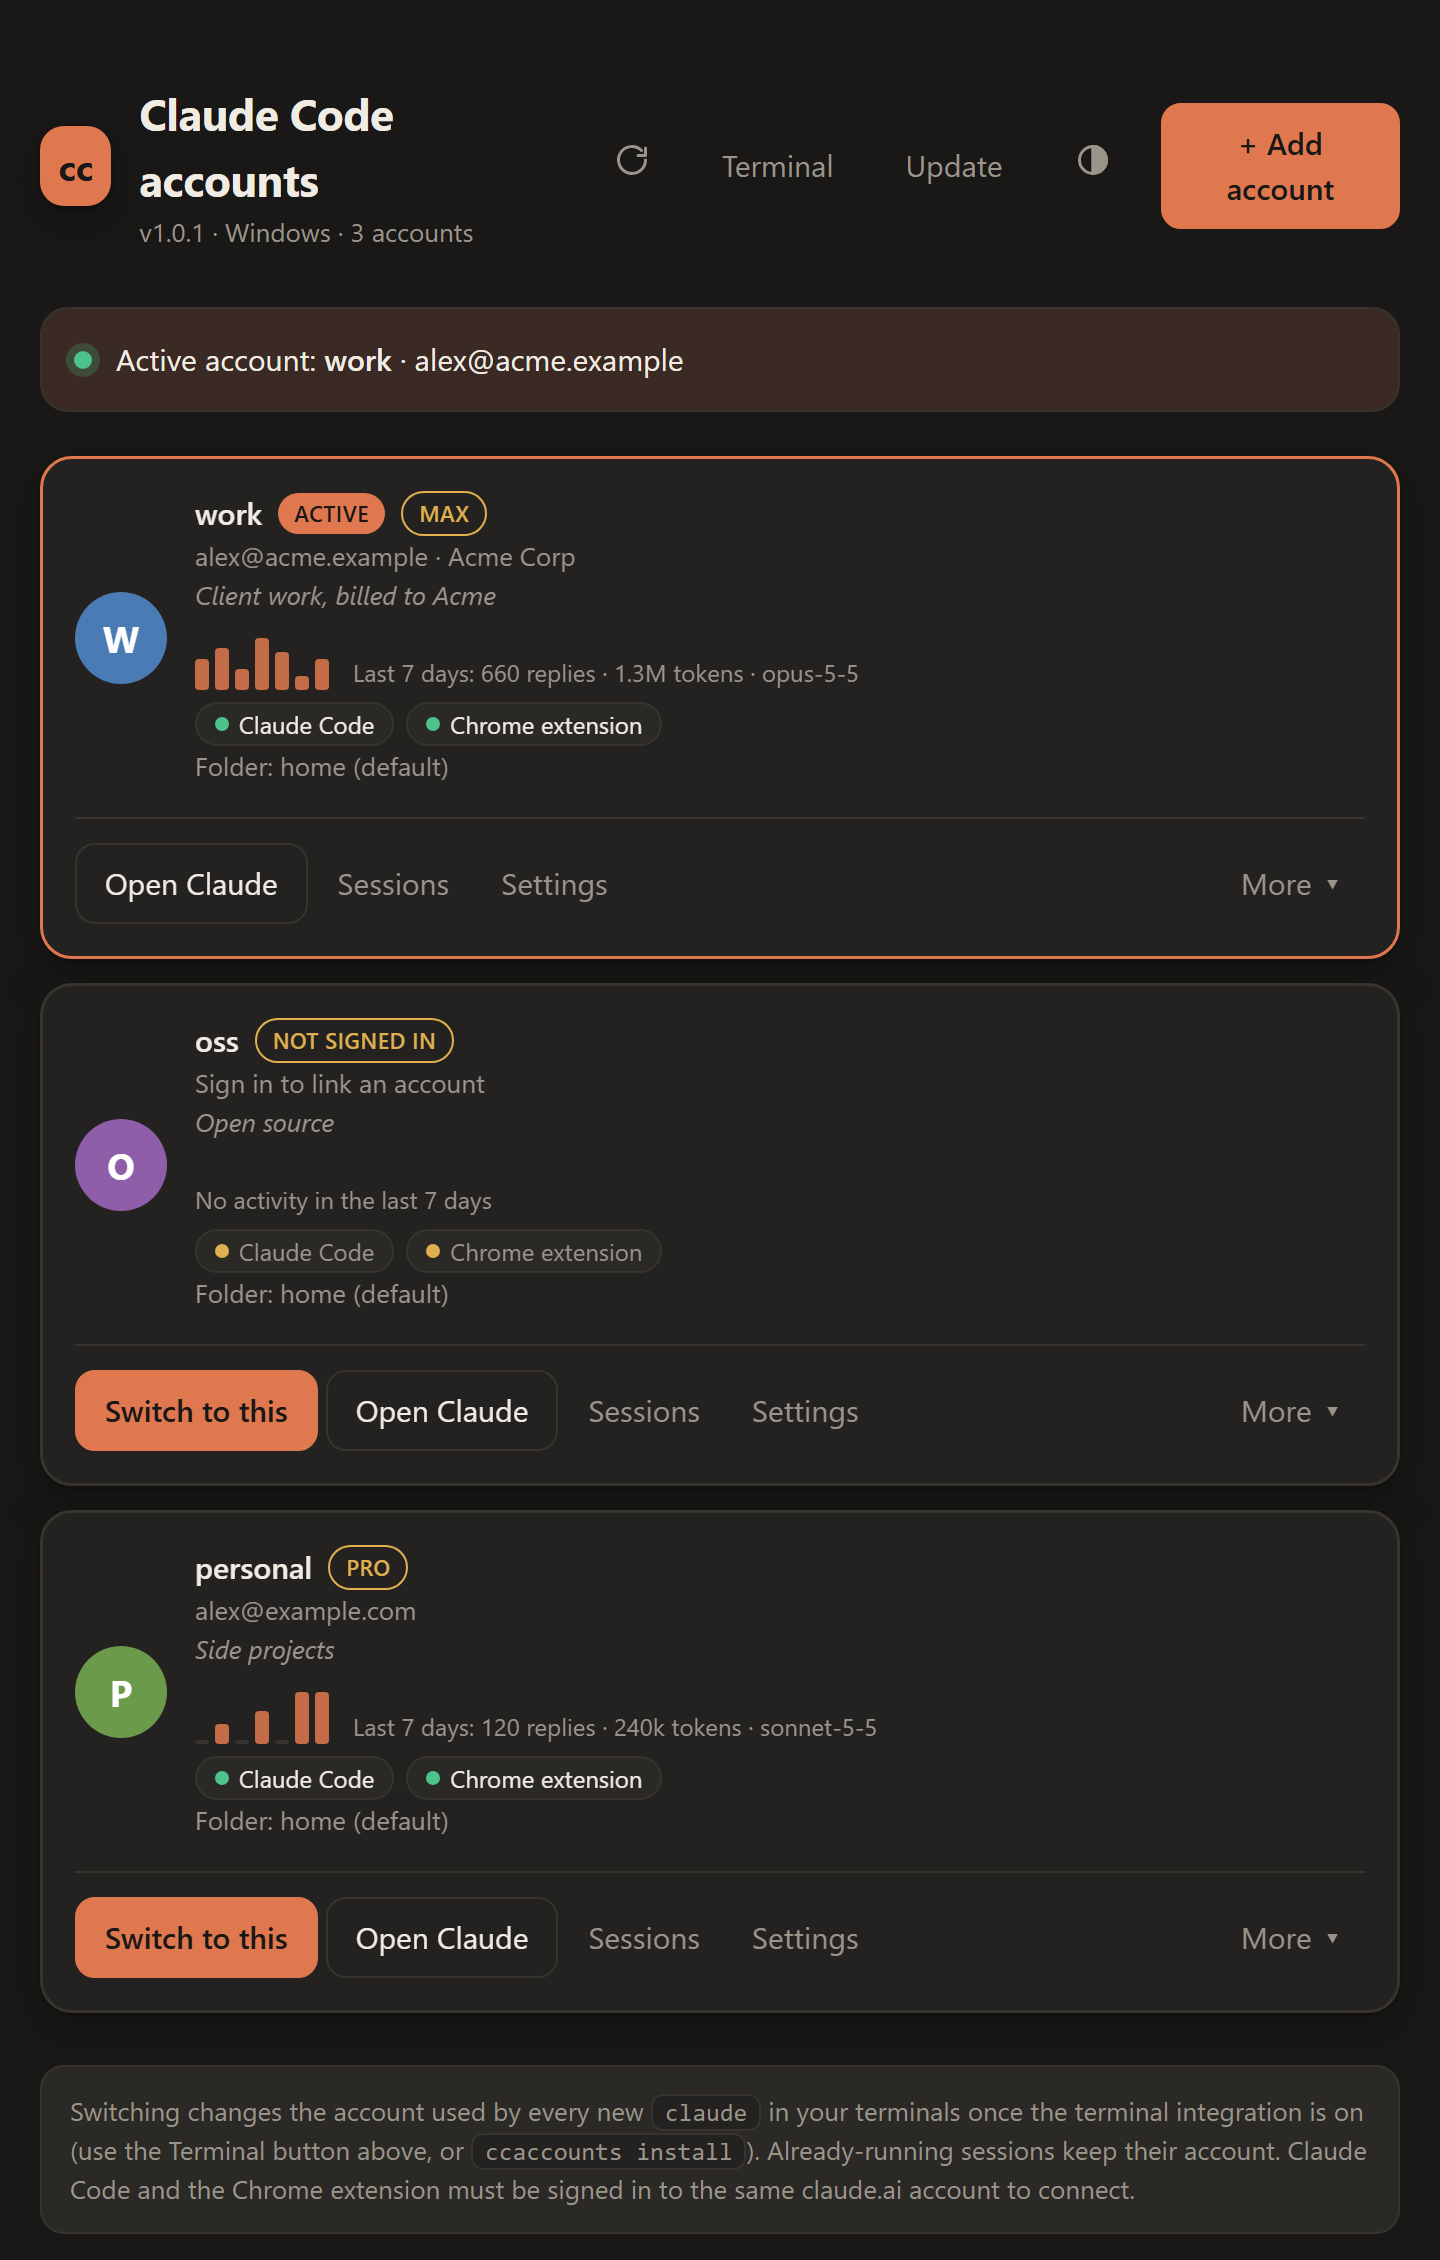
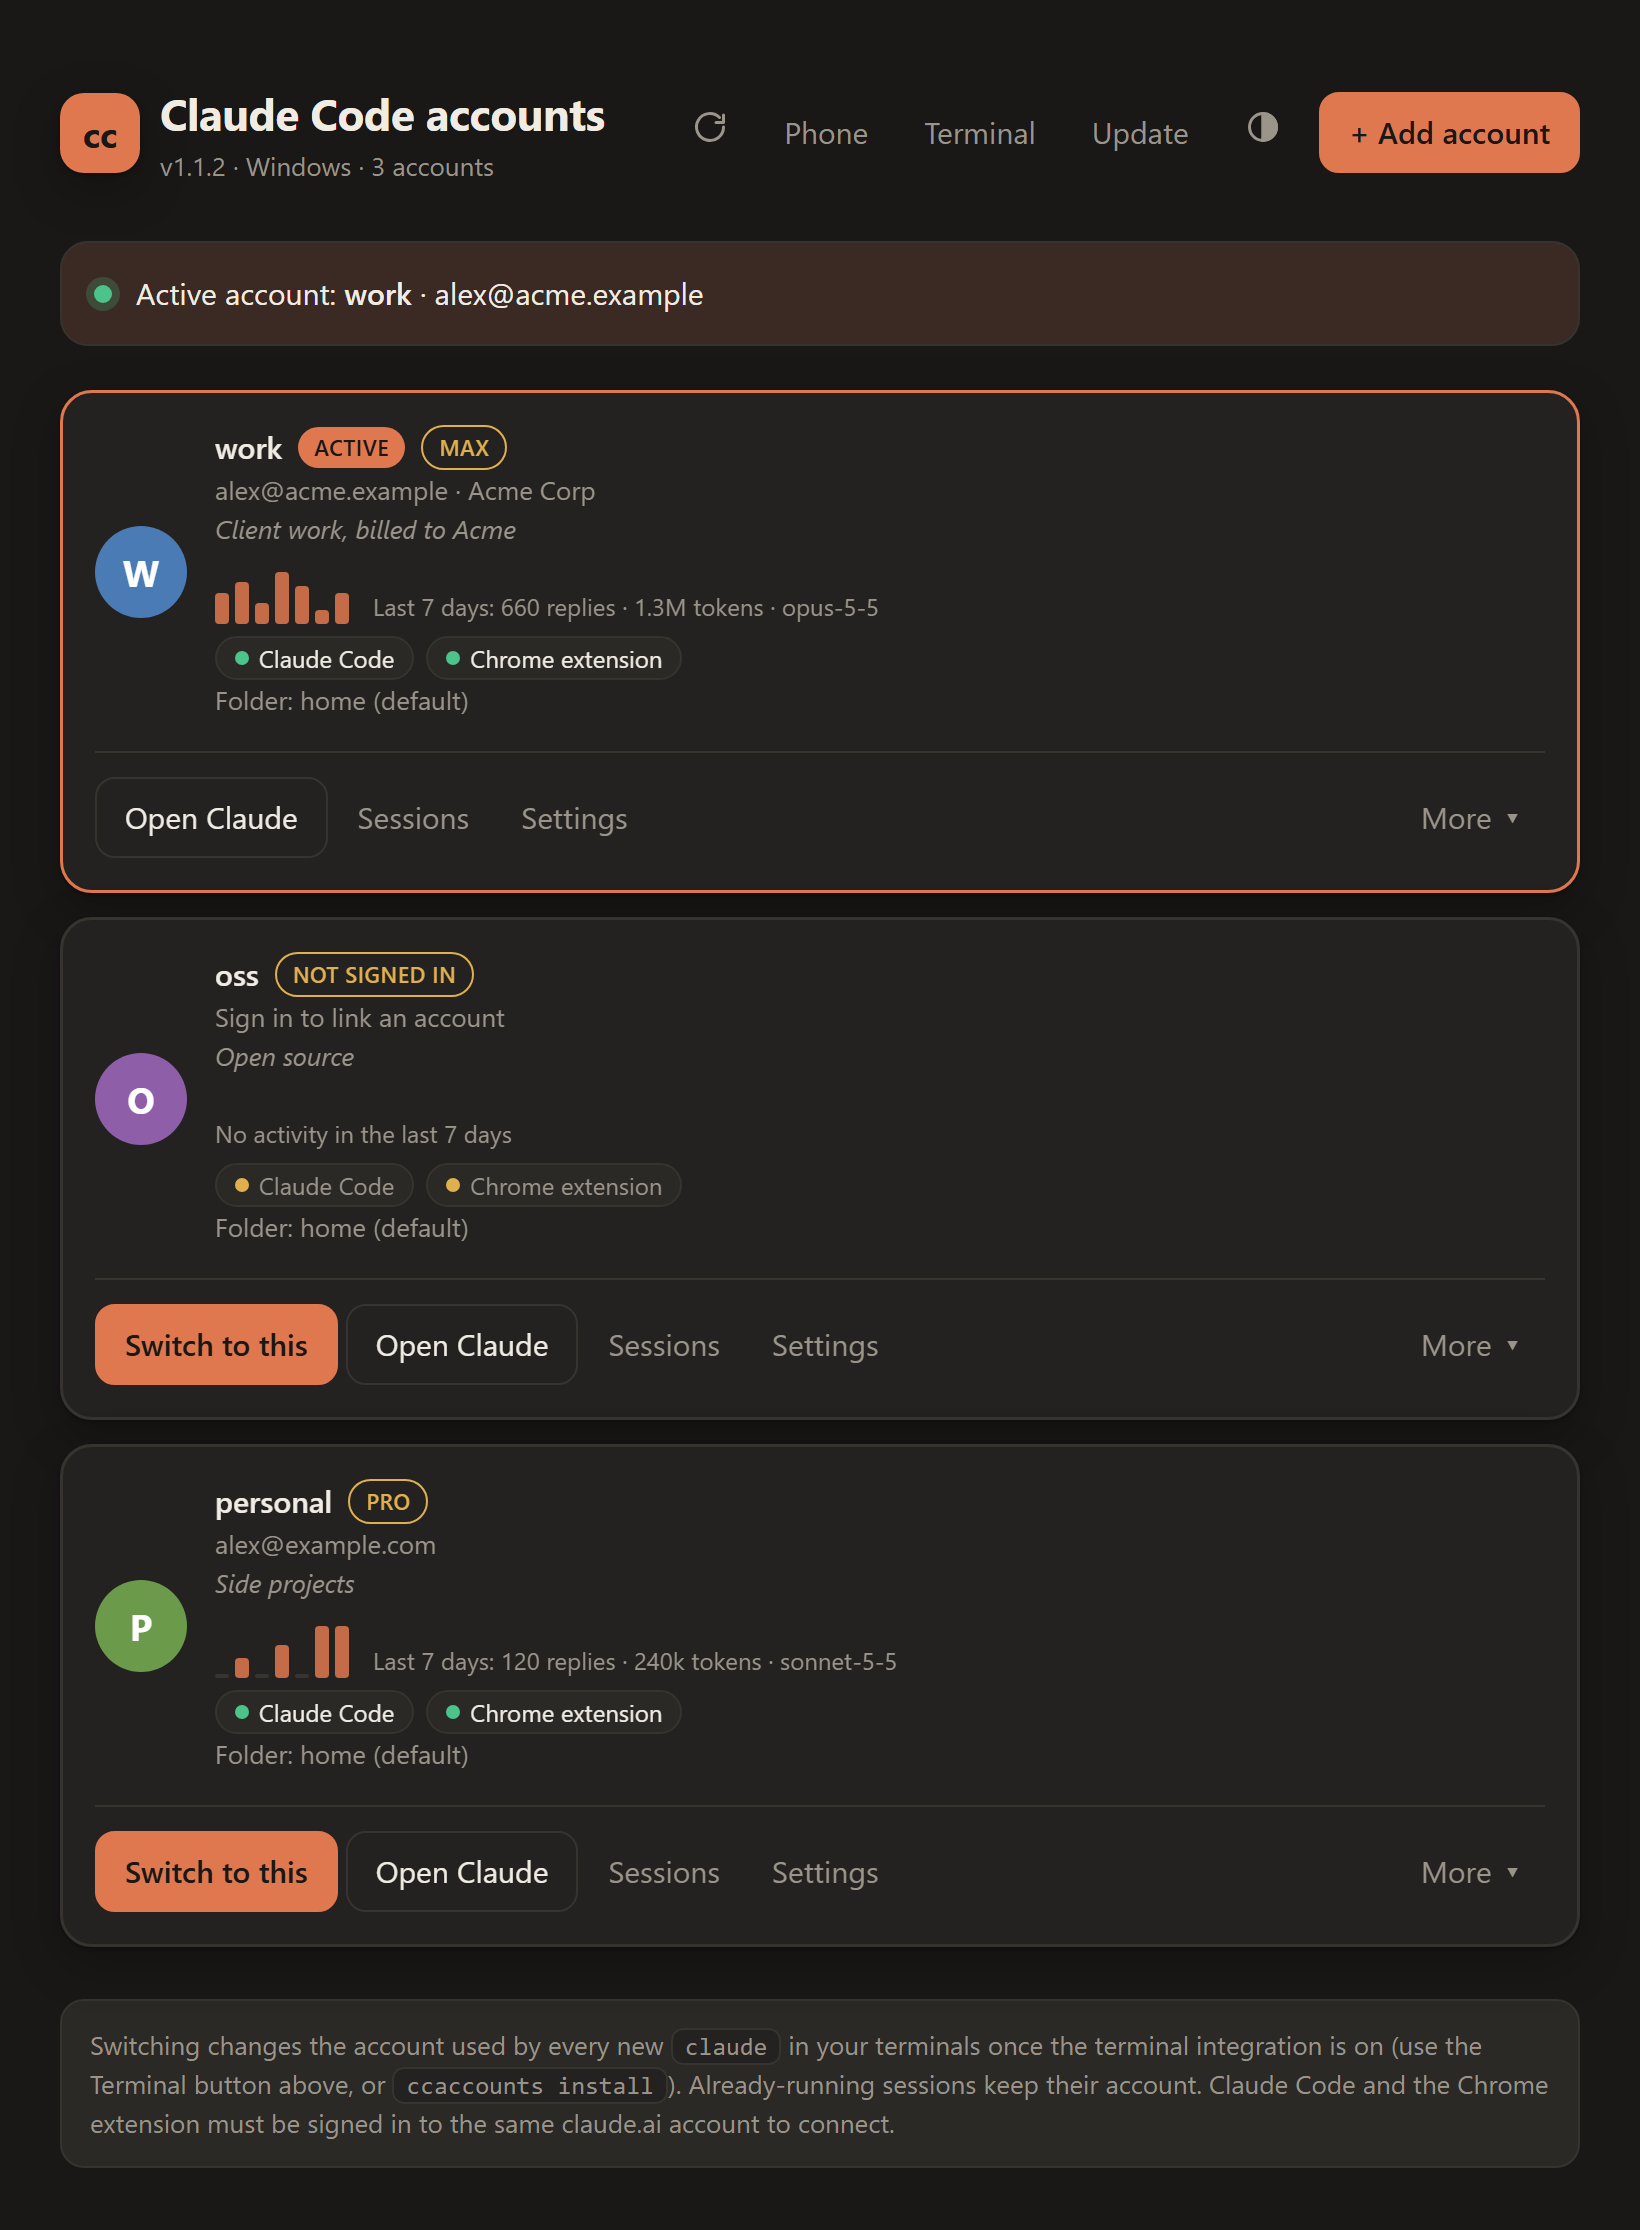
Desktop header on one row (stacked below 780px); refresh README screenshot

diff --git a/lib/ui.js b/lib/ui.js
@@ -116,15 +116,23 @@ select{width:100%;font:inherit;padding:10px 12px;border-radius:10px;border:1px s
 #toast{position:fixed;left:50%;bottom:28px;transform:translate(-50%,20px);background:var(--text);color:var(--bg);padding:10px 16px;border-radius:12px;opacity:0;pointer-events:none;transition:.25s;font-size:14px;max-width:90vw}
 #toast.show{opacity:1;transform:translate(-50%,0)}
 body.remote .localonly{display:none!important}
+@media (min-width:781px){
+.wrap{max-width:800px}
+header{flex-wrap:nowrap;gap:10px}
+h1,.sub,#add{white-space:nowrap}
+header button.ghost{padding:6px 8px}
+}
 .actions:empty{display:none}
-@media (max-width:600px){
-.wrap{padding:18px 14px calc(56px + env(safe-area-inset-bottom))}
+@media (max-width:780px){
 header{flex-wrap:wrap;gap:8px 10px;margin-bottom:20px}
 header .spacer{display:none}
 header>div:nth-child(2){flex:1 1 calc(100% - 56px);min-width:0}
-h1{font-size:19px}
 header button.ghost{flex:1 1 0;padding:10px 6px}
 #add{order:10;width:100%;padding:12px}
+}
+@media (max-width:600px){
+.wrap{padding:18px 14px calc(56px + env(safe-area-inset-bottom))}
+h1{font-size:19px}
 button{min-height:44px}
 .card{padding:14px;gap:12px}
 .avatar{width:40px;height:40px;font-size:16px}

diff --git a/CHANGELOG.md b/CHANGELOG.md
@@ -2,6 +2,7 @@
 
 ## 1.1.2
 - Fix: on a phone, accounts with long emails, organisation names or folder paths made the cards wider than the screen. They now wrap, and the phone header keeps its title on one line.
+- The desktop header (title, buttons and Add account) now fits on one row; narrower windows stack it instead of squeezing it.
 
 ## 1.1.1
 - Fix: a phone that scanned the QR code could land on "This phone is not paired". The pairing cookie is now `SameSite=Lax`, so it survives the redirect when the link is opened from a camera or scanner app.
